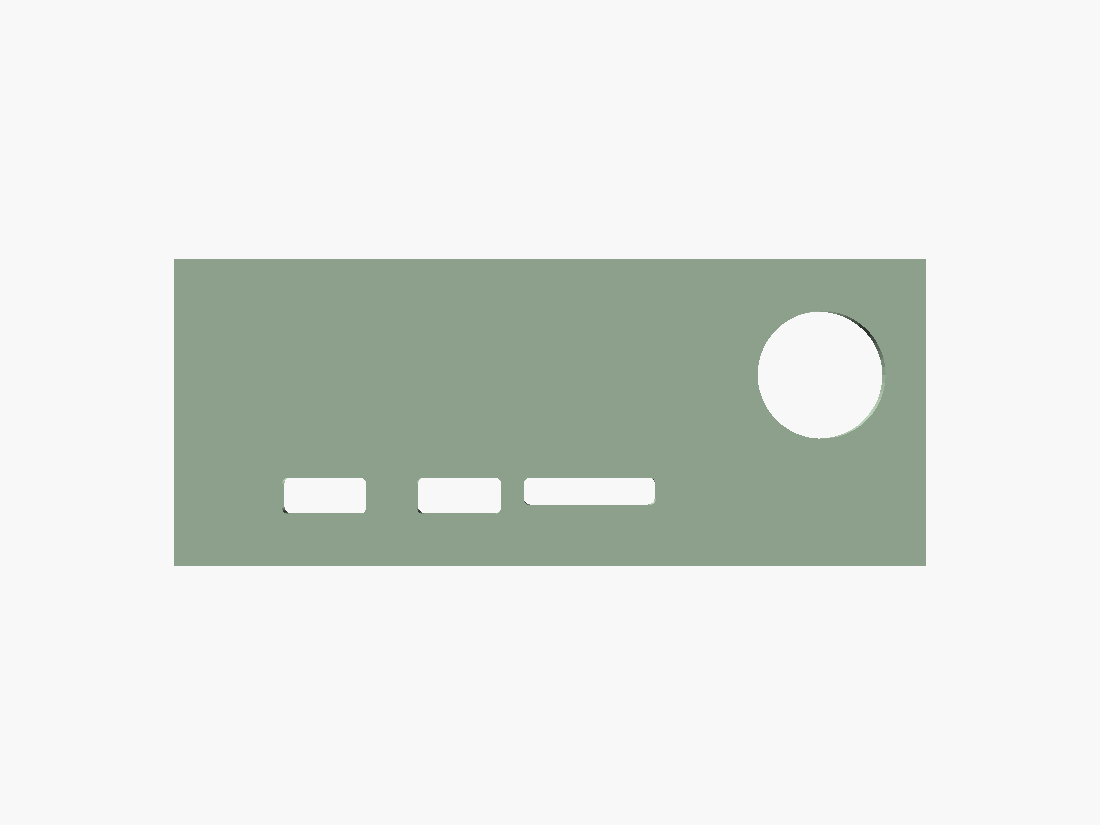
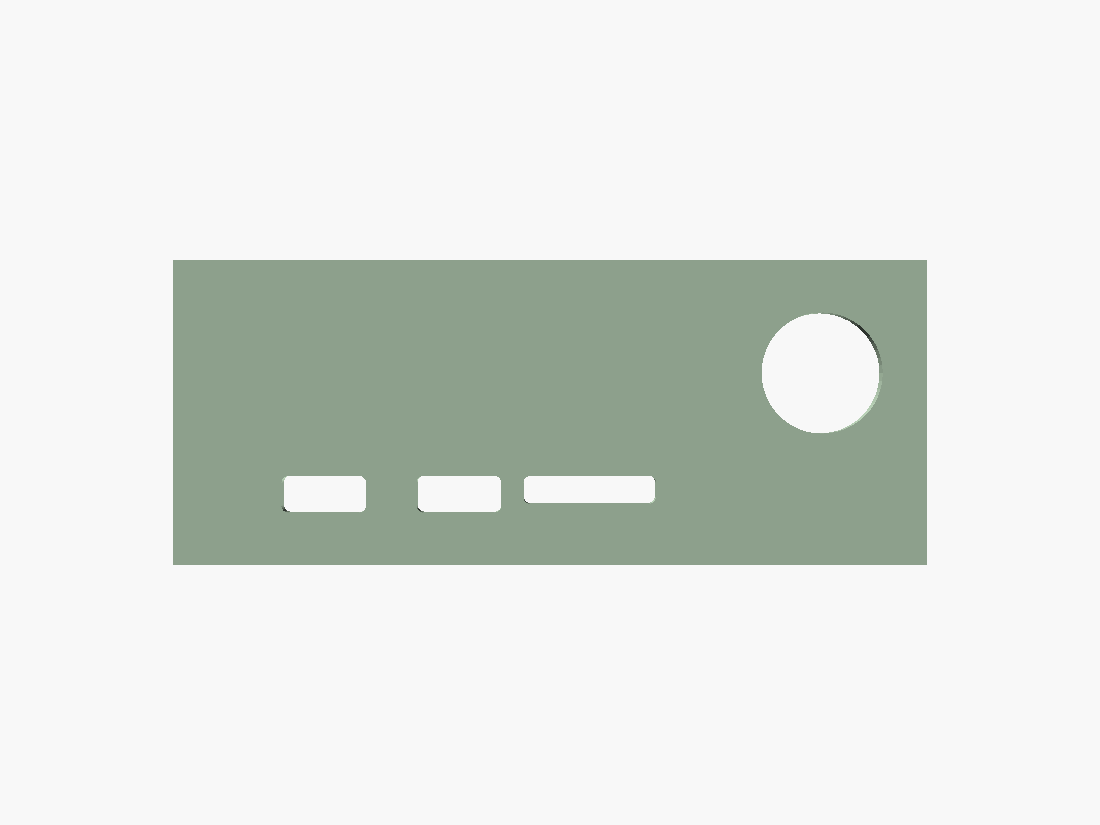
fix(case): put the switch hole back to the Ø13.9 that fitted
The first coupon took the switch perfectly at pwr_fit = 0.4. The 1.2 that
followed printed Ø14.7 — wider than pwr_body_d — so nothing bore against
the wall and the panel stopped retaining it.

Back to a measured 0.4, and the switch is exempt from the ports'
panel_slip + print_bloat: the printer's bloat is already inside that
number. Ports stay as they are; the second coupon dry-fits, USB-C snuggest.

diff --git a/hardware/case/README.md b/hardware/case/README.md
@@ -195,8 +195,10 @@ below.
       the *plug* envelope, and `sd_w` 13.0 was the same kind of guess. Calipered:
       USB-C shell 8.5 × 2.75–3.0, µSD cage 14.0 wide, and the cage bottom sits
       1 mm *above* the shell bottoms (`sd_rise`) where the model had them level.
-      With 1.2 mm of slack on every panel opening (`port_fit`, `pwr_fit`) that
-      gives USB-C 9.7 × 4.2, µSD 15.2 × 3.2, switch Ø14.7.
+      With 1.2 mm of slack on every port opening (`port_fit`) that gives USB-C
+      9.7 × 4.2 and µSD 15.2 × 3.2. Dry-fitted on the second coupon: everything
+      goes in, USB-C the snuggest of them. The switch keeps its own, smaller
+      `pwr_fit` — see below.
 - [x] **Port X spacing is measured centre to centre**, 15.5 (charge→keyboard) and
       15.0 (keyboard→µSD) — the only spacing a caliper can reach on a populated
       board. The old edge-gap chain reproduced the USB-C pitch *exactly*, which is
@@ -223,17 +225,16 @@ below.
       fit in the model now derives from the single `print_bloat` constant, so the
       value is one line to change and nothing else moves. It is still an *estimate*
       off the jammed first coupon: caliper the printed coupon's openings against
-      nominal (9.7 × 4.2, 15.2 × 3.2, Ø14.7) and set `print_bloat` to the delta
+      nominal (9.7 × 4.2, 15.2 × 3.2) and set `print_bloat` to the delta
       before committing to the 10-hour body print. Compensation is XY only — Z is
       layer height, and first-layer squish is the slicer's elephant-foot setting.
-- [ ] **Switch retention at `pwr_fit = 1.2`.** Ø14.7 is wider than `pwr_body_d`
-      (14.0, the widest measured feature behind the panel), so as modelled nothing
-      on the switch bears against the wall — the hole no longer retains it. This
-      is only safe if the retaining nut or front bezel is wider than 14.7. Caliper
-      that feature: if it is, record it and the fit stands; if it isn't, `pwr_fit`
-      goes back to 0.4 and a tight-printing hole gets solved with slicer hole
-      compensation instead. The same reading also sharpens `pwr_z`, which is
-      derived from `pwr_body_d`.
+- [x] **Switch hole settled on the print: `pwr_fit = 0.4`, Ø13.9.** The first
+      coupon took the switch perfectly at that hole; the 1.2 that followed printed
+      Ø14.7, wider than `pwr_body_d` (14.0, the widest measured feature behind the
+      panel), so nothing bore against the wall and the panel stopped retaining it.
+      Back to 0.4, and the switch alone is exempt from the `panel_slip +
+      print_bloat` slack the ports carry — the printer's bloat is already inside
+      that measured 0.4.
 - [ ] FPC **reach**: the panel's own ribbon is 20 mm, but the glass back plane
       sits ~38 mm off the floor at mid-deck and PCB 1's top face is at 7.2 mm —
       a ~31 mm drop before the U-turn bend and the lateral run to the driver.
